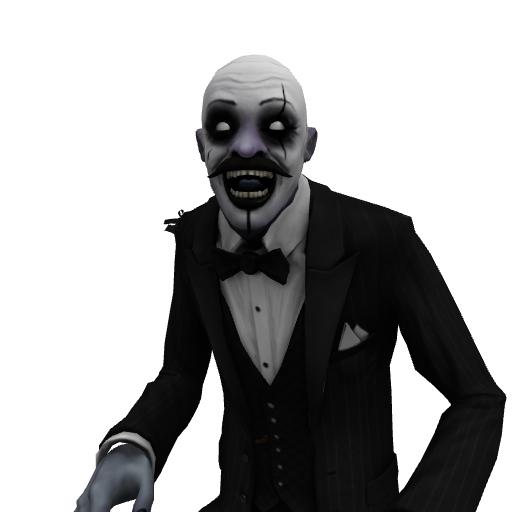
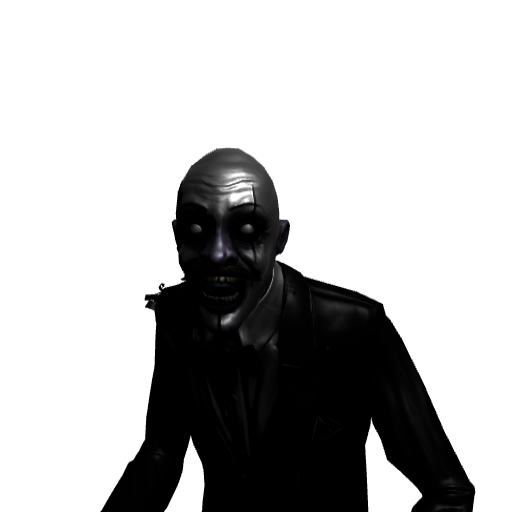
feat: regenerate all thumbnails with idle animation pose
- thumbnail.html: add &anim= URL param to load separate idle GLB,
  merge idle animations into mesh model before rendering
- generate_thumbnails.js: detect zombie_N_idle.glb and pass as &anim param
- All 30 zombie thumbnails regenerated: natural idle stance instead of T-pose/bind-pose

Changed region(s): [[0.3125, 0.0938, 1.0, 1.0], [0.125, 0.5, 0.4375, 1.0]]

diff --git a/public/thumbnail.html b/public/thumbnail.html
@@ -23,6 +23,7 @@ import { DRACOLoader } from '/node_modules/three/examples/jsm/loaders/DRACOLoade
 
 const params = new URLSearchParams(location.search);
 const model = params.get('model');
+const anim = params.get('anim');   // optional separate idle animation GLB
 const size = parseInt(params.get('size') || '512', 10);
 const canvas = document.getElementById('c');
 canvas.width = size; canvas.height = size;
@@ -187,17 +188,31 @@ if (!model) {
     window.__THUMBNAIL_READY__ = true;
   }
 
-  if (isGLB) {
+  /** Load a GLB and return a Promise<GLTF> */
+  function loadGLB(url) {
     const gltfLoader = new GLTFLoader();
     const dracoLoader = new DRACOLoader();
     dracoLoader.setDecoderPath('/draco/');
     gltfLoader.setDRACOLoader(dracoLoader);
-    gltfLoader.load(decodeURIComponent(model), function(gltf) {
-      const obj = gltf.scene;
-      // Transfer animations from GLTF to the scene object
-      obj.animations = gltf.animations || [];
+    return new Promise((resolve, reject) => {
+      gltfLoader.load(decodeURIComponent(url), resolve, undefined, reject);
+    });
+  }
+
+  if (isGLB) {
+    // Load mesh, optionally load separate idle animation GLB
+    const meshPromise = loadGLB(model);
+    const animPromise = anim ? loadGLB(anim) : Promise.resolve(null);
+    Promise.all([meshPromise, animPromise]).then(([meshGltf, animGltf]) => {
+      const obj = meshGltf.scene;
+      // Merge: prefer separate idle anim, fall back to embedded animations
+      if (animGltf && animGltf.animations && animGltf.animations.length) {
+        obj.animations = animGltf.animations;
+      } else {
+        obj.animations = meshGltf.animations || [];
+      }
       onModelLoaded(obj);
-    }, undefined, onError);
+    }).catch(onError);
   } else {
     const fbxLoader = new FBXLoader();
     fbxLoader.load(decodeURIComponent(model), onModelLoaded, undefined, onError);

diff --git a/.ai/scripts/generate_thumbnails.js b/.ai/scripts/generate_thumbnails.js
@@ -78,9 +78,16 @@ function writeDataUrlToFile(dataUrl, outPath) {
         console.log('no model for', name); continue;
       }
 
+      // Find separate idle animation GLB (zombie_N_idle.glb)
+      const idleAnimFile = files.find(f => f === `${name}_idle.glb`);
+
       const modelPath = `/models/${name}/${modelFile}`;
-      const url = `${baseUrl}/thumbnail.html?model=${encodeURIComponent(modelPath)}&size=512`;
-      console.log('Generating thumbnail for', name, '→', modelFile);
+      let url = `${baseUrl}/thumbnail.html?model=${encodeURIComponent(modelPath)}&size=512`;
+      if (idleAnimFile) {
+        const animPath = `/models/${name}/${idleAnimFile}`;
+        url += `&anim=${encodeURIComponent(animPath)}`;
+      }
+      console.log('Generating thumbnail for', name, '→', modelFile, idleAnimFile ? `+ ${idleAnimFile}` : '(no idle anim)');
 
       page.on('console', msg => console.log('PAGE LOG:', msg.text()));
       page.on('pageerror', err => console.error('PAGE ERROR:', err.toString()));
